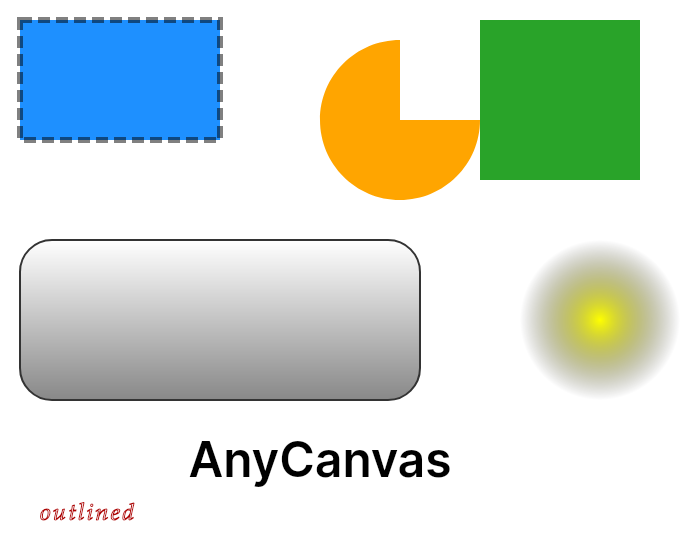
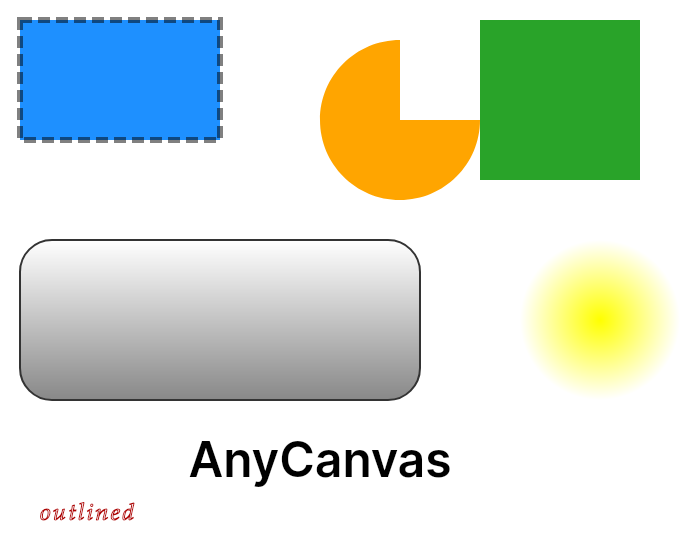
fix: transparent gradient stops take their neighbour's RGB
Straight-alpha interpolators (Skia, tgfx) turned yellow → transparent into a dark halo; with the
neighbour's RGB every painter fades like the browser's premultiplied gradient.

Changed region(s): [[0.75, 0.425, 0.96, 0.6982]]

diff --git a/core/src/drawlist.cpp b/core/src/drawlist.cpp
@@ -80,6 +80,26 @@ void PaintData::normalize() {
   std::stable_sort(stops.begin(), stops.end(), [](const Stop& a, const Stop& b) { return a.offset < b.offset; });
   if (stops.empty()) { kind = Paint::COLOR; color = { 0, 0, 0, 0 }; return; }
   if (stops.size() == 1) { kind = Paint::COLOR; color = stops[0].color; stops.clear(); return; }
+  // Fully transparent stops take the RGB of their neighbours. Browsers interpolate gradients in
+  // premultiplied space (a transparent stop contributes no color); Skia / tgfx / node-canvas
+  // interpolate straight alpha, where "yellow → transparent" passes through dark olive. With the
+  // neighbour's RGB both spaces agree for alpha-0 stops. A transparent stop between two different
+  // colors splits into two coincident stops, one per side.
+  std::vector<Stop> fixed;
+  fixed.reserve(stops.size() + 2);
+  for (size_t i = 0; i < stops.size(); i++) {
+    const Stop& s = stops[i];
+    if (s.color.a > 0) { fixed.push_back(s); continue; }
+    const Stop* left = nullptr;
+    for (size_t k = i; k-- > 0;) if (stops[k].color.a > 0) { left = &stops[k]; break; }
+    const Stop* right = nullptr;
+    for (size_t k = i + 1; k < stops.size(); k++) if (stops[k].color.a > 0) { right = &stops[k]; break; }
+    if (!left && !right) { fixed.push_back(s); continue; }   // an all-transparent gradient stays as is
+    auto withRgb = [&](const Stop& src) { Stop t = s; t.color.r = src.color.r; t.color.g = src.color.g; t.color.b = src.color.b; return t; };
+    if (left && right && !(left->color == right->color)) { fixed.push_back(withRgb(*left)); fixed.push_back(withRgb(*right)); }
+    else fixed.push_back(withRgb(left ? *left : *right));
+  }
+  stops.swap(fixed);
 }
 
 // ---- Path -----------------------------------------------------------------------------------------

diff --git a/tests/core/unit.cpp b/tests/core/unit.cpp
@@ -168,6 +168,13 @@ static void testInterpreterGradientsAndDash() {
   CHECK(json.find("\"stops\":[{\"offset\":0,\"color\":[0,0,0,1]},{\"offset\":1,\"color\":[1,1,1,1]}]") != std::string::npos);
   CHECK(json.find("\"dash\":[1,2,3,1,2,3]") != std::string::npos);
 
+  // Transparent stops take their neighbour's RGB (premultiplied-equivalent interpolation everywhere);
+  // one between two different colors splits into two coincident stops.
+  l = run({ (float)Op::FILL_GRADIENT, 0, 0, 0, 1, 0, 0, 0, 2, 0, 0, 1, 1, (float)Op::FILL_RECT, 0, 0, 1, 1 }, { "yellow", "transparent" });
+  CHECK(l.toJson().find("\"stops\":[{\"offset\":0,\"color\":[1,1,0,1]},{\"offset\":1,\"color\":[1,1,0,0]}]") != std::string::npos);
+  l = run({ (float)Op::FILL_GRADIENT, 0, 0, 0, 1, 0, 0, 0, 3, 0, 0, 0.5f, 1, 1, 2, (float)Op::FILL_RECT, 0, 0, 1, 1 }, { "red", "transparent", "blue" });
+  CHECK(l.toJson().find("\"stops\":[{\"offset\":0,\"color\":[1,0,0,1]},{\"offset\":0.5,\"color\":[1,0,0,0]},{\"offset\":0.5,\"color\":[0,0,1,0]},{\"offset\":1,\"color\":[0,0,1,1]}]") != std::string::npos);
+
   // One stop collapses to a color; unsorted stops sort.
   l = run({ (float)Op::FILL_GRADIENT, 0, 0, 0, 1, 0, 0, 0, 1, 0.5f, 0, (float)Op::FILL_RECT, 0, 0, 1, 1 }, { "#00f" });
   CHECK(l.toJson().find("\"kind\":\"color\",\"alpha\":1,\"color\":[0,0,1,1]") != std::string::npos);

diff --git a/README.md b/README.md
@@ -90,7 +90,9 @@ float trig differs in the last digits between libms.
 
 - Text is drawn by the platform: identical draw lists, different pixels.
 - Canvas2D gradients only pad; Android's radial gradient is concentric (no focal point);
-  `letterSpacing` on the web needs Chrome 99+ / Safari 17+.
+  `letterSpacing` on the web needs Chrome 99+ / Safari 17+. Gradient stops with alpha 0 take their
+  neighbour's RGB in the core, so straight-alpha interpolators (Skia, tgfx) fade like the browser's
+  premultiplied one; stops with partial alpha still differ slightly between the two.
 - SVG is nanosvg's model plus text: shapes, gradients, dashes, transforms, opacity, a tint override,
   `<text>` / `<tspan>` with anchor, baseline and letter-spacing. A `<tspan>` without a position
   merges into its run (no metrics in the core). No `textPath`, filters, masks, patterns or CSS
